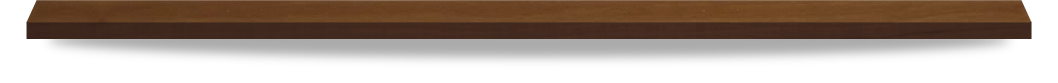
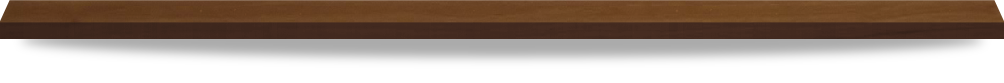
Fixed some layout problems + spelling errors

Changed region(s): [[0.9263, 0.0, 1.0, 0.5783], [0.0, 0.0, 0.0618, 0.5783]]

diff --git a/css/style.css b/css/style.css
@@ -1,1 +1,1 @@
-.center{text-align:center}.hide{display:none}.right{float:right}article,aside,details,figcaption,figure,footer,header,hgroup,nav,section{display:block}audio,canvas,video{display:inline-block;*display:inline;*zoom:1}audio:not([controls]){display:none}[hidden]{display:none}html{font-size:100%;-webkit-text-size-adjust:100%;-ms-text-size-adjust:100%}html,button,input,select,textarea{font-family:sans-serif;color:#222}body{margin:0;font-size:1em;line-height:1.4}::-moz-selection{background:#fe57a1;color:#fff;text-shadow:none}::selection{background:#feaeac;color:#fff;text-shadow:none}a{color:#00e}a:visited{color:#551a8b}a:hover{color:#06e}a:focus{outline:thin dotted}a:hover,a:active{outline:0}abbr[title]{border-bottom:1px dotted}b,strong{font-weight:bold}blockquote{margin:1em 40px}dfn{font-style:italic}hr{display:block;height:1px;border:0;border-top:1px solid #ccc;margin:1em 0;padding:0}ins{background:#ff9;color:#000;text-decoration:none}mark{background:#ff0;color:#000;font-style:italic;font-weight:bold}pre,code,kbd,samp{font-family:monospace,serif;_font-family:'courier new',monospace;font-size:1em}pre{white-space:pre;white-space:pre-wrap;word-wrap:break-word}q{quotes:none}q:before,q:after{content:"";content:none}small{font-size:85%}sub,sup{font-size:75%;line-height:0;position:relative;vertical-align:baseline}sup{top:-0.5em}sub{bottom:-0.25em}ul,ol{margin:1em 0;padding:0 0 0 40px}dd{margin:0 0 0 40px}nav ul,nav ol{list-style:none;list-style-image:none;margin:0;padding:0}img{border:0;-ms-interpolation-mode:bicubic;vertical-align:middle}svg:not(:root){overflow:hidden}figure{margin:0}form{margin:0}fieldset{border:0;margin:0;padding:0}label{cursor:pointer}legend{border:0;*margin-left:-7px;padding:0;white-space:normal}button,input,select,textarea{font-size:100%;margin:0;vertical-align:baseline;*vertical-align:middle}button,input{line-height:normal}button,input[type="button"],input[type="reset"],input[type="submit"]{cursor:pointer;-webkit-appearance:button;*overflow:visible}button[disabled],input[disabled]{cursor:default}input[type="checkbox"],input[type="radio"]{box-sizing:border-box;padding:0;*width:13px;*height:13px}input[type="search"]{-webkit-appearance:textfield;-moz-box-sizing:content-box;-webkit-box-sizing:content-box;box-sizing:content-box}input[type="search"]::-webkit-search-decoration,input[type="search"]::-webkit-search-cancel-button{-webkit-appearance:none}button::-moz-focus-inner,input::-moz-focus-inner{border:0;padding:0}textarea{overflow:auto;vertical-align:top;resize:vertical}input:invalid,textarea:invalid{background-color:#f0dddd}table{border-collapse:collapse;border-spacing:0}td{vertical-align:top}.chromeframe{margin:.2em 0;background:#ccc;color:black;padding:.2em 0}.ir{border:0;font:0/0 a;text-shadow:none;color:transparent;background-color:transparent}.hidden{display:none!important;visibility:hidden}.visuallyhidden{border:0;clip:rect(0 0 0 0);height:1px;margin:-1px;overflow:hidden;padding:0;position:absolute;width:1px}.visuallyhidden.focusable:active,.visuallyhidden.focusable:focus{clip:auto;height:auto;margin:0;overflow:visible;position:static;width:auto}.invisible{visibility:hidden}@media print{*{background:transparent!important;color:black!important;box-shadow:none!important;text-shadow:none!important;filter:none!important;-ms-filter:none!important}a,a:visited{text-decoration:underline}a[href]:after{content:" (" attr(href) ")"}abbr[title]:after{content:" (" attr(title) ")"}.ir a:after,a[href^="javascript:"]:after,a[href^="#"]:after{content:""}pre,blockquote{border:1px solid #999;page-break-inside:avoid}thead{display:table-header-group}tr,img{page-break-inside:avoid}img{max-width:100%!important}@page{margin:.5cm}p,h2,h3{orphans:3;widows:3}h2,h3{page-break-after:avoid}}.column-1{float:left;width:54px;margin:0 15px}.column-2{float:left;width:138px;margin:0 15px}.column-3{float:left;width:222px;margin:0 15px}.column-4{float:left;width:306px;margin:0 15px}.column-5{float:left;width:390px;margin:0 15px}.column-6{float:left;width:474px;margin:0 15px}.column-7{float:left;width:558px;margin:0 15px}.column-8{float:left;width:642px;margin:0 15px}.column-9{float:left;width:726px;margin:0 15px}.column-10{float:left;width:810px;margin:0 15px}.column-11{float:left;width:894px;margin:0 15px}.column-12{float:left;width:978px;margin:0 15px}.push-1{margin-left:99px}.push-2{margin-left:153px}.push-3{margin-left:207px}.push-4{margin-left:261px}.pull-1{margin-right:99px}.pull-2{margin-right:153px}.pull-3{margin-right:207px}.pull-4{margin-right:261px}.container{width:1008px;margin:0 auto;position:relative}@font-face{font-family:'FuturaStd';src:url('../fonts/FuturaStd-Condensed.otf') format('opentype')}@font-face{font-family:'FuturaStd';src:url('../fonts/FuturaStd-CondensedBold.otf') format('opentype');font-weight:bold}@font-face{font-family:'Kontrapunkt-Bob';src:url('../fonts/Kontrapunkt-Bob-Bold.otf') format('opentype');font-weight:bold}@font-face{font-family:'Kontrapunkt-Bob';src:url('../fonts/Kontrapunkt-Bob-Light.otf') format('opentype');font-weight:normal}.normal{font-family:'FuturaStd',Helvetica,Arial,sans}.sans{font-family:'Lucida Sans',Arial,sans}.header{font-family:'Kontrapunkt-Bob',Helvetica,Arial,sans;font-weight:bold}.header-light{font-family:'Kontrapunkt-Bob',Helvetica,Arial,sans;font-weight:normal}.uppercase{text-transform:uppercase}.bold{font-weight:bold}html{background:url(../images/graph-paper.jpg) repeat;border-top:5px solid black}body{font-family:'Lucida Sans',Arial,sans;margin:0;font-size:1.15em}h1,h2,h3,h4{font-weight:bold;font-family:'Kontrapunkt-Bob',Helvetica,Arial,sans;font-weight:bold}h1{font-size:3em;margin:1.5em 0;line-height:1em}h2{font-size:2em;margin:.75em 0}h3{font-size:1.6em;margin:.5em 0}h4{font-size:1.2em;margin:1.0em 0}h5{font-size:.9em;margin:.5em 0}p{font-family:'Lucida Sans',Arial,sans;font-size:1.0em;line-height:1.6;margin:1.0em 0}small{font-size:.6em}a:link{color:#e62222;text-decoration:none}a:visited{color:#e62222}a:hover{text-decoration:underline}a:active{color:#bf1616}ul{padding-left:0}li{font-size:1.0em;line-height:1.4em;margin-left:1.8em}hr.fat{background:black;border:0;height:10px;margin:1em 0}.button{display:none;text-align:center;background:red;padding:.5em 0;margin:1em 0}#header{padding:2em 0;position:relative;background:#edf5f6;text-align:center}#header h1{margin:.5em 0 .2em;text-transform:uppercase;font-family:'Kontrapunkt-Bob',Helvetica,Arial,sans;font-weight:bold}#header h1 a{color:black;text-shadow:-3px 3px #f8cdd2;transition:all .5s linear;-moz-transition:all .5s linear;-o-transition:all .5s linear;-webkit-transition:all .5s linear}#header h1 a:hover{text-decoration:none;text-shadow:-3px 3px #e62222}#header h2{font-size:1.2em;font-weight:normal;font-family:'Kontrapunkt-Bob',Helvetica,Arial,sans;font-weight:normal;text-transform:uppercase;text-shadow:-2px 2px #bbb;word-spacing:1em}#header #mail-link{position:absolute;top:20px;right:20px;font-size:1.4em;transform:rotate(7deg);-ms-transform:rotate(7deg);-moz-transform:rotate(7deg);-webkit-transform:rotate(7deg);-o-transform:rotate(7deg)}#nav{background:rgba(0,0,0,0.85);text-align:center;margin:0}#nav #main-menu{padding:.3em 0}#nav #main-menu li{display:inline;margin:0 1em;font-size:1.4em;font-family:'FuturaStd',Helvetica,Arial,sans}#nav #main-menu li a{text-transform:uppercase;color:#bbb;padding:.25em .8em .1em}#nav #main-menu li a:hover{color:#ffba00;text-decoration:none}#nav #main-menu li.active a{color:#ffba00;background:#444;border-radius:1em}section{padding:0 0 4em;clear:both;zoom:1}section:before,section:after{content:"";display:table}section:after{clear:both}section h2{text-align:center;font-family:'Kontrapunkt-Bob',Helvetica,Arial,sans;font-weight:bold;margin:1em 0;padding:.7em 0;font-size:2.5em;color:white;text-shadow:-2px 2px #75c2ff}#services{text-align:center}#services em{color:#0060b2;background:#fffdee}#services h2{color:#e62222;text-shadow:-2px 2px #fbd9d9}#services h3{text-align:center;margin:1.5em 0 0}#services p{font-size:1.3em}#services #about{padding-left:2em;padding-right:2em}#services figure{text-align:center}article p{margin:.5em 0}article .content{zoom:1;height:314px}article .content:before,article .content:after{content:"";display:table}article .content:after{clear:both}#portfolio{background:url(../images/graph-paper-dark.jpg) repeat;border-top:5px solid #00377b}#portfolio article{padding-bottom:1em;margin-bottom:2.5em;clear:both;zoom:1;background:url(../images/shelf.png) bottom center no-repeat}#portfolio article:before,#portfolio article:after{content:"";display:table}#portfolio article:after{clear:both}#portfolio article .content{zoom:1;height:314px}#portfolio article .content:before,#portfolio article .content:after{content:"";display:table}#portfolio article .content:after{clear:both}#portfolio article h3{color:#fe5;margin-top:0}#portfolio article h4{color:white;margin:0}#portfolio article p{color:white}#portfolio article a{color:#fe5;font-weight:bold}#portfolio article a.external{float:right;border:1px solid #2d8617;color:white;padding:.15em 1.0em;margin:.3em 0;font-size:.6em;font-weight:bold;box-shadow:inset 1px 0 0 #c2e9ad,inset 0 1px 0 #c2e9ad,inset -1px 0 0 #c2e9ad,inset 0 -1px 0 #c2e9ad;-moz-box-shadow:inset 1px 0 0 #c2e9ad,inset 0 1px 0 #c2e9ad,inset -1px 0 0 #c2e9ad,inset 0 -1px 0 #c2e9ad;-webkit-box-shadow:inset 1px 0 0 #c2e9ad,inset 0 1px 0 #c2e9ad,inset -1px 0 0 #c2e9ad,inset 0 -1px 0 #c2e9ad;background:#5fb231;background:-moz-linear-gradient(top,#6ac636 0,#00a200 100%);background:-webkit-gradient(linear,left top,left bottom,color-stop(0%,#6ac636),color-stop(100%,#00a200));background:-webkit-linear-gradient(top,#6ac636 0,#00a200 100%);background:-o-linear-gradient(top,#6ac636 0,#00a200 100%);background:-ms-linear-gradient(top,#6ac636 0,#00a200 100%);background:linear-gradient(top,#6ac636 0,#00a200 100%);filter:progid:dximagetransform.microsoft.gradient(startColorstr='@top',endColorstr='@bottom',GradientType=0);border-radius:1em;-moz-border-radius:1em;-webkit-border-radius:1em}#portfolio article a.external:hover{text-decoration:none}#portfolio article a.external:active{background:#008900;background:-moz-linear-gradient(top,#00a200 0,#6ac636 100%);background:-webkit-gradient(linear,left top,left bottom,color-stop(0%,#00a200),color-stop(100%,#6ac636));background:-webkit-linear-gradient(top,#00a200 0,#6ac636 100%);background:-o-linear-gradient(top,#00a200 0,#6ac636 100%);background:-ms-linear-gradient(top,#00a200 0,#6ac636 100%);background:linear-gradient(top,#00a200 0,#6ac636 100%);filter:progid:dximagetransform.microsoft.gradient(startColorstr='@top',endColorstr='@bottom',GradientType=0);box-shadow:none;-moz-box-shadow:none;-webkit-box-shadow:none;color:#b2e795}#portfolio article ul.tags{zoom:1;margin:.8em 0}#portfolio article ul.tags:before,#portfolio article ul.tags:after{content:"";display:table}#portfolio article ul.tags:after{clear:both}#portfolio article ul.tags li{display:inline;color:white;background:#42abff;padding:.2em .9em;margin:0 .6em .4em 0;border-radius:1em;-moz-border-radius:1em;-webkit-border-radius:1em;font-family:'Lucida Sans',Arial,sans;font-weight:bold;font-size:.80em;float:left;letter-spacing:-1px}.thumbnail{position:relative;overflow:hidden}.thumbnail .hover-msg{display:none;position:absolute;left:0;top:0;text-align:center;width:100%;height:100%;background:rgba(0,0,0,0.25);cursor:pointer}.thumbnail .hover-msg span{color:white;border-radius:1em;-moz-border-radius:1em;-webkit-border-radius:1em;padding:.4em 1.1em;background:rgba(0,0,0,0.8);position:relative;top:45%}.thumbnail img.thumb{float:left;margin-right:1em;width:100%}.thumbnail:hover .hover-msg{display:block}#projects{padding-top:0}#projects header h2{text-align:center;color:#5db92a;text-shadow:-3px 3px #b2e795}#projects article{zoom:1;clear:both;padding-bottom:1em;margin-bottom:2.5em;background:url(../images/shelf.png) bottom center no-repeat}#projects article:before,#projects article:after{content:"";display:table}#projects article:after{clear:both}#projects article .content{zoom:1;height:314px}#projects article .content:before,#projects article .content:after{content:"";display:table}#projects article .content:after{clear:both}#projects article h3{font-size:2.0em;margin:0;color:#eb5050}#projects article h4{margin:1em 0 0}#projects .thumbnail img{width:100%}#contact{clear:both;position:relative;padding:2em 0 8em;background:#222;color:white}#contact h2{color:#fe5;text-shadow:-3px 3px #624c1d}#contact h3{color:#42abff}#contact a{color:#fe5}#contact #elsewhere li{line-height:1.9;margin:0 0 .3em;list-style:none}#contact #elsewhere li a{background:#333;display:block;border-radius:2em;-moz-border-radius:2em;-webkit-border-radius:2em;padding:0 1em}#contact #elsewhere li a:hover{background:black;text-decoration:none}#contact .text{position:absolute;bottom:44%;z-index:100}#contact .avatar{float:left;margin:0 1em 0 0;border:5px solid white}#contact footer{height:0;border-bottom:3px solid #333;zoom:1;margin:2em 0}#contact footer:before,#contact footer:after{content:"";display:table}#contact footer:after{clear:both}#resize{background:url(../images/resize.png);position:fixed;left:0;bottom:0;height:104px;width:104px;display:none}#darkness{background:rgba(0,0,0,0.7);width:100%;height:100%;z-index:90;top:0;display:none;overflow-x:hidden;overflow-y:auto;position:fixed;cursor:pointer}#darkness #overlay{position:absolute;top:60px;padding-bottom:80px;left:50%;margin-left:-40%;width:80%;z-index:100;display:none}#darkness #overlay img{width:100%}@media only screen and (min-width:320px) and (max-width:480px),(min-device-width:320px) and (max-device-width:480px){#nav #main-menu li,#nav #main-menu a{display:block}}
+.center{text-align:center}.hide{display:none}.right{float:right}article,aside,details,figcaption,figure,footer,header,hgroup,nav,section{display:block}audio,canvas,video{display:inline-block;*display:inline;*zoom:1}audio:not([controls]){display:none}[hidden]{display:none}html{font-size:100%;-webkit-text-size-adjust:100%;-ms-text-size-adjust:100%}html,button,input,select,textarea{font-family:sans-serif;color:#222}body{margin:0;font-size:1em;line-height:1.4}::-moz-selection{background:#fe57a1;color:#fff;text-shadow:none}::selection{background:#feaeac;color:#fff;text-shadow:none}a{color:#00e}a:visited{color:#551a8b}a:hover{color:#06e}a:focus{outline:thin dotted}a:hover,a:active{outline:0}abbr[title]{border-bottom:1px dotted}b,strong{font-weight:bold}blockquote{margin:1em 40px}dfn{font-style:italic}hr{display:block;height:1px;border:0;border-top:1px solid #ccc;margin:1em 0;padding:0}ins{background:#ff9;color:#000;text-decoration:none}mark{background:#ff0;color:#000;font-style:italic;font-weight:bold}pre,code,kbd,samp{font-family:monospace,serif;_font-family:'courier new',monospace;font-size:1em}pre{white-space:pre;white-space:pre-wrap;word-wrap:break-word}q{quotes:none}q:before,q:after{content:"";content:none}small{font-size:85%}sub,sup{font-size:75%;line-height:0;position:relative;vertical-align:baseline}sup{top:-0.5em}sub{bottom:-0.25em}ul,ol{margin:1em 0;padding:0 0 0 40px}dd{margin:0 0 0 40px}nav ul,nav ol{list-style:none;list-style-image:none;margin:0;padding:0}img{border:0;-ms-interpolation-mode:bicubic;vertical-align:middle}svg:not(:root){overflow:hidden}figure{margin:0}form{margin:0}fieldset{border:0;margin:0;padding:0}label{cursor:pointer}legend{border:0;*margin-left:-7px;padding:0;white-space:normal}button,input,select,textarea{font-size:100%;margin:0;vertical-align:baseline;*vertical-align:middle}button,input{line-height:normal}button,input[type="button"],input[type="reset"],input[type="submit"]{cursor:pointer;-webkit-appearance:button;*overflow:visible}button[disabled],input[disabled]{cursor:default}input[type="checkbox"],input[type="radio"]{box-sizing:border-box;padding:0;*width:13px;*height:13px}input[type="search"]{-webkit-appearance:textfield;-moz-box-sizing:content-box;-webkit-box-sizing:content-box;box-sizing:content-box}input[type="search"]::-webkit-search-decoration,input[type="search"]::-webkit-search-cancel-button{-webkit-appearance:none}button::-moz-focus-inner,input::-moz-focus-inner{border:0;padding:0}textarea{overflow:auto;vertical-align:top;resize:vertical}input:invalid,textarea:invalid{background-color:#f0dddd}table{border-collapse:collapse;border-spacing:0}td{vertical-align:top}.chromeframe{margin:.2em 0;background:#ccc;color:black;padding:.2em 0}.ir{border:0;font:0/0 a;text-shadow:none;color:transparent;background-color:transparent}.hidden{display:none!important;visibility:hidden}.visuallyhidden{border:0;clip:rect(0 0 0 0);height:1px;margin:-1px;overflow:hidden;padding:0;position:absolute;width:1px}.visuallyhidden.focusable:active,.visuallyhidden.focusable:focus{clip:auto;height:auto;margin:0;overflow:visible;position:static;width:auto}.invisible{visibility:hidden}@media print{*{background:transparent!important;color:black!important;box-shadow:none!important;text-shadow:none!important;filter:none!important;-ms-filter:none!important}a,a:visited{text-decoration:underline}a[href]:after{content:" (" attr(href) ")"}abbr[title]:after{content:" (" attr(title) ")"}.ir a:after,a[href^="javascript:"]:after,a[href^="#"]:after{content:""}pre,blockquote{border:1px solid #999;page-break-inside:avoid}thead{display:table-header-group}tr,img{page-break-inside:avoid}img{max-width:100%!important}@page{margin:.5cm}p,h2,h3{orphans:3;widows:3}h2,h3{page-break-after:avoid}}.column-1{float:left;width:50px;margin:0 15px}.column-2{float:left;width:130px;margin:0 15px}.column-3{float:left;width:210px;margin:0 15px}.column-4{float:left;width:290px;margin:0 15px}.column-5{float:left;width:370px;margin:0 15px}.column-6{float:left;width:450px;margin:0 15px}.column-7{float:left;width:530px;margin:0 15px}.column-8{float:left;width:610px;margin:0 15px}.column-9{float:left;width:690px;margin:0 15px}.column-10{float:left;width:770px;margin:0 15px}.column-11{float:left;width:850px;margin:0 15px}.column-12{float:left;width:930px;margin:0 15px}.push-1{margin-left:95px}.push-2{margin-left:145px}.push-3{margin-left:195px}.push-4{margin-left:245px}.pull-1{margin-right:95px}.pull-2{margin-right:145px}.pull-3{margin-right:195px}.pull-4{margin-right:245px}.container{width:960px;margin:0 auto;position:relative}@font-face{font-family:'FuturaStd';src:url('../fonts/FuturaStd-Condensed.otf') format('opentype')}@font-face{font-family:'FuturaStd';src:url('../fonts/FuturaStd-CondensedBold.otf') format('opentype');font-weight:bold}@font-face{font-family:'Kontrapunkt-Bob';src:url('../fonts/Kontrapunkt-Bob-Bold.otf') format('opentype');font-weight:bold}@font-face{font-family:'Kontrapunkt-Bob';src:url('../fonts/Kontrapunkt-Bob-Light.otf') format('opentype');font-weight:normal}.normal{font-family:'FuturaStd',Helvetica,Arial,sans}.sans{font-family:'Lucida Sans',Arial,sans}.header{font-family:'Kontrapunkt-Bob',Helvetica,Arial,sans;font-weight:bold}.header-light{font-family:'Kontrapunkt-Bob',Helvetica,Arial,sans;font-weight:normal}.uppercase{text-transform:uppercase}.bold{font-weight:bold}html{background:url(../images/graph-paper.jpg) repeat;border-top:5px solid black}body{font-family:'Lucida Sans',Arial,sans;margin:0;font-size:1.15em}h1,h2,h3,h4{font-weight:bold;font-family:'Kontrapunkt-Bob',Helvetica,Arial,sans;font-weight:bold}h1{font-size:3em;margin:1.5em 0;line-height:1em}h2{font-size:2em;margin:.75em 0}h3{font-size:1.6em;margin:.5em 0}h4{font-size:1.2em;margin:1.0em 0}h5{font-size:.9em;margin:.5em 0}p{font-family:'Lucida Sans',Arial,sans;font-size:1.0em;line-height:1.6;margin:1.0em 0}small{font-size:.6em}a:link{color:#e62222;text-decoration:none}a:visited{color:#e62222}a:hover{text-decoration:underline}a:active{color:#bf1616}ul{padding-left:0}li{font-size:1.0em;line-height:1.4em;margin-left:1.8em}hr.fat{background:black;border:0;height:10px;margin:1em 0}.button{display:none;text-align:center;background:red;padding:.5em 0;margin:1em 0}#header{padding:2em 0;position:relative;background:#edf5f6;text-align:center}#header h1{margin:.5em 0 .2em;text-transform:uppercase;font-family:'Kontrapunkt-Bob',Helvetica,Arial,sans;font-weight:bold}#header h1 a{color:black;text-shadow:-3px 3px #f8cdd2;transition:all .5s linear;-moz-transition:all .5s linear;-o-transition:all .5s linear;-webkit-transition:all .5s linear}#header h1 a:hover{text-decoration:none;text-shadow:-3px 3px #e62222}#header h2{font-size:1.2em;font-weight:normal;font-family:'Kontrapunkt-Bob',Helvetica,Arial,sans;font-weight:normal;text-transform:uppercase;text-shadow:-2px 2px #bbb;word-spacing:1em}#header #mail-link{position:absolute;top:20px;right:20px;font-size:1.4em;transform:rotate(7deg);-ms-transform:rotate(7deg);-moz-transform:rotate(7deg);-webkit-transform:rotate(7deg);-o-transform:rotate(7deg);font-weight:bold;letter-spacing:-1px}#nav{background:rgba(0,0,0,0.85);text-align:center;margin:0}#nav #main-menu{padding:.3em 0}#nav #main-menu li{display:inline;margin:0 1em;font-size:1.4em;font-family:'FuturaStd',Helvetica,Arial,sans}#nav #main-menu li a{text-transform:uppercase;color:#bbb;padding:.25em .8em .1em}#nav #main-menu li a:hover{color:#ffba00;text-decoration:none}#nav #main-menu li.active a{color:#ffba00;background:#444;border-radius:1em}section{padding:0 0 4em;clear:both;zoom:1}section:before,section:after{content:"";display:table}section:after{clear:both}section h2{text-align:center;font-family:'Kontrapunkt-Bob',Helvetica,Arial,sans;font-weight:bold;margin:1em 0;padding:.7em 0;font-size:2.5em;color:white;text-shadow:-2px 2px #75c2ff}#services{text-align:center}#services em{color:#0060b2;background:#fffdee}#services h2{color:#e62222;text-shadow:-2px 2px #fbd9d9}#services h3{text-align:center;margin:1.5em 0 0}#services p{font-size:1.3em}#services #about{padding-left:2em;padding-right:2em}#services figure{text-align:center}#services figure img{width:80%}article p{margin:.5em 0}article .content{zoom:1;height:250px}article .content:before,article .content:after{content:"";display:table}article .content:after{clear:both}article .shelf{text-align:center;clear:both}article .shelf img{width:100%}#portfolio{background:url(../images/graph-paper-dark.jpg) repeat;border-top:5px solid #00377b}#portfolio article{padding-bottom:1em;margin-bottom:2.5em;clear:both;zoom:1}#portfolio article:before,#portfolio article:after{content:"";display:table}#portfolio article:after{clear:both}#portfolio article .content{zoom:1}#portfolio article .content:before,#portfolio article .content:after{content:"";display:table}#portfolio article .content:after{clear:both}#portfolio article h3{color:#fe5;margin-top:0}#portfolio article h4{color:white;margin:0}#portfolio article p{color:white}#portfolio article a{color:#fe5;font-weight:bold}#portfolio article a.external{float:right;border:1px solid #2d8617;color:white;padding:.15em 1.0em;margin:.3em 0;font-size:.6em;font-weight:bold;box-shadow:inset 1px 0 0 #c2e9ad,inset 0 1px 0 #c2e9ad,inset -1px 0 0 #c2e9ad,inset 0 -1px 0 #c2e9ad;-moz-box-shadow:inset 1px 0 0 #c2e9ad,inset 0 1px 0 #c2e9ad,inset -1px 0 0 #c2e9ad,inset 0 -1px 0 #c2e9ad;-webkit-box-shadow:inset 1px 0 0 #c2e9ad,inset 0 1px 0 #c2e9ad,inset -1px 0 0 #c2e9ad,inset 0 -1px 0 #c2e9ad;background:#5fb231;background:-moz-linear-gradient(top,#6ac636 0,#00a200 100%);background:-webkit-gradient(linear,left top,left bottom,color-stop(0%,#6ac636),color-stop(100%,#00a200));background:-webkit-linear-gradient(top,#6ac636 0,#00a200 100%);background:-o-linear-gradient(top,#6ac636 0,#00a200 100%);background:-ms-linear-gradient(top,#6ac636 0,#00a200 100%);background:linear-gradient(top,#6ac636 0,#00a200 100%);filter:progid:dximagetransform.microsoft.gradient(startColorstr='@top',endColorstr='@bottom',GradientType=0);border-radius:1em;-moz-border-radius:1em;-webkit-border-radius:1em}#portfolio article a.external:hover{text-decoration:none}#portfolio article a.external:active{background:#008900;background:-moz-linear-gradient(top,#00a200 0,#6ac636 100%);background:-webkit-gradient(linear,left top,left bottom,color-stop(0%,#00a200),color-stop(100%,#6ac636));background:-webkit-linear-gradient(top,#00a200 0,#6ac636 100%);background:-o-linear-gradient(top,#00a200 0,#6ac636 100%);background:-ms-linear-gradient(top,#00a200 0,#6ac636 100%);background:linear-gradient(top,#00a200 0,#6ac636 100%);filter:progid:dximagetransform.microsoft.gradient(startColorstr='@top',endColorstr='@bottom',GradientType=0);box-shadow:none;-moz-box-shadow:none;-webkit-box-shadow:none;color:#b2e795}#portfolio article ul.tags{zoom:1;margin:.8em 0}#portfolio article ul.tags:before,#portfolio article ul.tags:after{content:"";display:table}#portfolio article ul.tags:after{clear:both}#portfolio article ul.tags li{display:inline;color:white;background:#42abff;padding:.2em .9em;margin:0 .6em .4em 0;border-radius:1em;-moz-border-radius:1em;-webkit-border-radius:1em;font-family:'Lucida Sans',Arial,sans;font-weight:bold;font-size:.80em;float:left;letter-spacing:-1px}.thumbnail{position:relative;overflow:hidden}.thumbnail .hover-msg{display:none;position:absolute;left:0;top:0;text-align:center;width:100%;height:100%;background:rgba(0,0,0,0.25);cursor:pointer}.thumbnail .hover-msg span{color:white;border-radius:1em;-moz-border-radius:1em;-webkit-border-radius:1em;padding:.4em 1.1em;background:rgba(0,0,0,0.8);position:relative;top:45%}.thumbnail img.thumb{float:left;margin-right:1em;width:100%}.thumbnail:hover .hover-msg{display:block}#projects{padding-top:0}#projects header h2{text-align:center;color:#5db92a;text-shadow:-3px 3px #b2e795}#projects article{zoom:1;clear:both;padding-bottom:1em;margin-bottom:2.5em}#projects article:before,#projects article:after{content:"";display:table}#projects article:after{clear:both}#projects article .content{zoom:1}#projects article .content:before,#projects article .content:after{content:"";display:table}#projects article .content:after{clear:both}#projects article h3{font-size:2.0em;margin:0;color:#eb5050}#projects article h4{margin:1em 0 0}#projects .thumbnail img{width:100%}#contact{clear:both;position:relative;padding:2em 0 8em;background:#222;color:white}#contact h2{color:#fe5;text-shadow:-3px 3px #624c1d}#contact h3{color:#42abff}#contact a{color:#fe5}#contact #elsewhere li{line-height:1.9;margin:0 0 .3em;list-style:none}#contact #elsewhere li a{background:#333;display:block;border-radius:2em;-moz-border-radius:2em;-webkit-border-radius:2em;padding:0 1em}#contact #elsewhere li a:hover{background:black;text-decoration:none}#contact .text{position:absolute;bottom:44%;z-index:100}#contact .avatar{float:left;margin:0 1em 0 0;border:5px solid white}#contact footer{height:0;border-bottom:3px solid #333;zoom:1;margin:2em 0}#contact footer:before,#contact footer:after{content:"";display:table}#contact footer:after{clear:both}#resize{background:url(../images/resize.png);position:fixed;left:0;bottom:0;height:104px;width:104px;display:none}#darkness{background:rgba(0,0,0,0.7);width:100%;height:100%;z-index:90;top:0;display:none;overflow-x:hidden;overflow-y:auto;position:fixed;cursor:pointer}#darkness #overlay{position:absolute;top:60px;padding-bottom:80px;left:50%;margin-left:-40%;width:80%;z-index:100;display:none}#darkness #overlay img{width:100%}@media only screen and (min-width:320px) and (max-width:480px),(min-device-width:320px) and (max-device-width:480px){#nav #main-menu li,#nav #main-menu a{display:block;font-size:1.0em}}@media only screen and (min-width:481px) and (max-width:767px),(min-device-width:481px) and (max-device-width:767px){.column-5,.column-7{float:left;width:450px;margin:0 15px;clear:both}}

diff --git a/less/style.less b/less/style.less
@@ -15,16 +15,15 @@
 
 /* Pixel based grid 978 */
 
-@columnWidth : 54px;
+
 @columns: 12;
 @gutter: 30px;
-
 @fluidWidth: 100% / 12;
+@columnWidth : 50px;
 
 .width(@numColumns) {
 	float: left;
 	width: @columnWidth * @numColumns + @gutter * (@numColumns - 1);
-/*	width: @fluidWidth * @numColumns;*/
 	margin: 0 @gutter/2;
 }
 
@@ -54,7 +53,6 @@
 .pull-2 { .pull(2); }
 .pull-3 { .pull(3); }
 .pull-4 { .pull(4); }
-
 
 .container {
 	width: @columns * @columnWidth + @columns * @gutter;
@@ -205,6 +203,7 @@ hr.fat {
 	padding: 2em 0;
 	position: relative;
 	background: #EDF5F6;
+/*	background: url(../images/graph-paper-dark.jpg) repeat;*/
 	text-align: center;
 	
 	h1 {
@@ -228,14 +227,8 @@ hr.fat {
 		font-weight: normal;
 		.header-light;
 		.uppercase;
-		/*text-shadow: -1px 1px #BBB, -2px 2px #BBB, -3px 3px #BBB;*/
 		text-shadow: -2px 2px #BBB;
 		word-spacing: 1em;
-		
-		
-		span {
-/*			width: ;*/
-		}
 	}
 	
 	#mail-link {
@@ -244,6 +237,8 @@ hr.fat {
 		right: 20px;
 		font-size: 1.4em;
 		.rotate(7deg);
+		font-weight: bold;
+		letter-spacing: -1px;
 	}
 }
 
@@ -330,6 +325,7 @@ section {
 	figure {
 		text-align: center;
 		img {
+			width: 80%;
 		}
 	}
 }
@@ -340,7 +336,15 @@ article {
 	}
 	.content {
 		.clearfix();
-		height: 314px;
+		height: 250px;
+	}
+	.shelf {
+		/*background: url(../images/shelf.png) bottom center no-repeat;*/
+		text-align: center;
+		clear: both;
+		img {
+			width: 100%;
+		}
 	}
 }
 
@@ -353,11 +357,9 @@ article {
 		margin-bottom: 2.5em;
 		clear: both;
 		.clearfix();
-		background: url(../images/shelf.png) bottom center no-repeat;
 		
 		.content {
 			.clearfix();
-			height: 314px;
 		}
 		h3 {
 			color: @yellow;
@@ -477,13 +479,11 @@ article {
 		clear: both;
 		padding-bottom: 1em;
 		margin-bottom: 2.5em;
-/*		border-bottom: 5px solid black;*/
 		
-		background: url(../images/shelf.png) bottom center no-repeat;
+/*		background: url(../images/shelf.png) bottom center no-repeat;*/
 		
 		.content {
 			.clearfix();
-			height: 314px;
 		}
 		
 		h3 {
@@ -493,9 +493,6 @@ article {
 		}
 		h4 {
 			margin: 1em 0 0;
-		}
-		p {
-/*			font-size: 1.2em;*/
 		}
 	}
 	
@@ -567,7 +564,6 @@ article {
 
 /* Other UI Elements ========================== */
 
-
 #resize {
 	background: url(../images/resize.png);
 	position: fixed;
@@ -625,6 +621,7 @@ and (max-width : 480px),
 		#main-menu {
 			li, a {
 				display: block;
+				font-size: 1.0em;
 			}
 		}
 	}
@@ -637,7 +634,13 @@ and (min-width : 481px)
 and (max-width : 767px), 
 (min-device-width : 481px) and
 (max-device-width : 767px) {
-
+	@columnWidth : 50px;
+	.container {
+	}
+	.column-5, .column-7 {
+		.width(6);
+		clear: both;
+	}
 }
 
 /* iPads ========================== */
@@ -646,7 +649,6 @@ and (max-width : 767px),
 @media only screen
 and (min-width : 768px)
 and (max-width : 1024px) {
-
 }
 
 /* Landscape */
@@ -662,7 +664,7 @@ and (orientation : portrait) {
 and (min-width : 768px)
 and (max-width : 1024px) 
 and (orientation : landscape) {
-
+	
 }
 
 /* Desktops ========================== */
@@ -671,11 +673,9 @@ and (orientation : landscape) {
 @media only screen
 and (min-width : 1224px) 
 and (max-width : 1823px) {
-
 }
 
 /* Large */
 @media only screen
 and (min-width : 1824px) {
-
 }

diff --git a/index.php b/index.php
@@ -118,6 +118,10 @@
 									<?php endforeach ?>
 								</ul>
 							</div>
+							
+						</div>
+						<div class="shelf">
+							<img src="/images/shelf.png" />
 						</div>
 					</article>
 					
@@ -152,6 +156,9 @@
 								<h3><?php echo $project['title'] ?></h3>
 								<p><?php echo $project['summary'] ?></p>
 							</div>
+						</div>
+						<div class="shelf">
+							<img src="/images/shelf.png" />
 						</div>
 					</article>
 				
